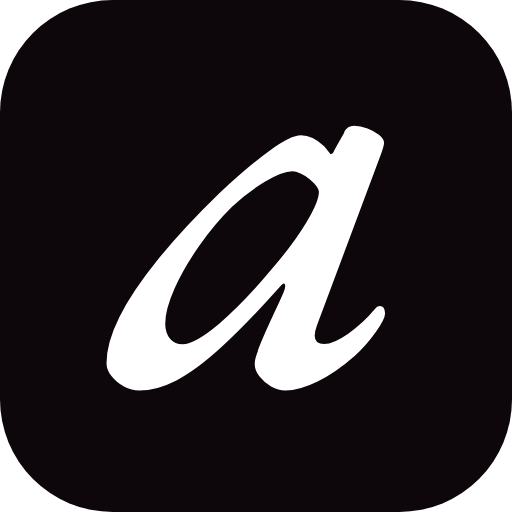
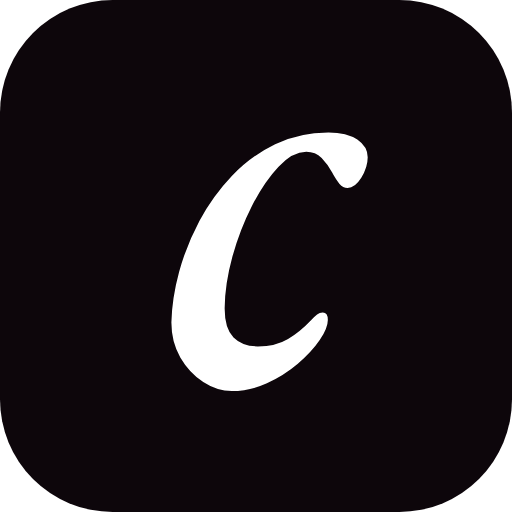
Gather the brand images in brand/
The README banner, GitHub avatar and social preview, X header, and the
Chrome Web Store's promo tiles and screenshots now live in brand/, with
a README saying where each goes. The web app's icons move from the old
mark to the Clutchbox c.

Changed region(s): [[0.1875, 0.25, 0.75, 0.7812], [0.5, 0.3438, 0.5312, 0.375], [0.5, 0.2812, 0.5312, 0.3125]]

diff --git a/scripts/check-extension-version.ts b/scripts/check-extension-version.ts
@@ -1,6 +1,6 @@
 // CI: extension code changed since the base commit needs a new version in apps/extension/package.json.
 // Users install builds by hand, so two different builds sharing a version would hide an update from them.
-// Usage: check-extension-version <base commit>. The store listing (apps/extension/store) and docs are not counted.
+// Usage: check-extension-version <base commit>. Docs are not counted.
 import { execFileSync } from 'node:child_process';
 import { compareVersions } from '../packages/capture/src/index';
 
@@ -29,7 +29,7 @@ if (!before) {
 // The capture package ships inside the extension.
 const changed = git('diff', '--name-only', base, 'HEAD', '--', 'apps/extension', 'packages/capture/src')
   .split('\n')
-  .filter(file => file && !/\.(test\.ts|md)$/.test(file) && !file.startsWith('apps/extension/store/'));
+  .filter(file => file && !/\.(test\.ts|md)$/.test(file));
 // YY.MDD.PATCH: 26.1016.0 is the first release on October 16, 2026 (January 1 is 101); PATCH counts up within a day.
 const calendar = /^\d{2}\.(?:[1-9]|1[0-2])(?:0[1-9]|[12]\d|3[01])\.(?:0|[1-9]\d*)$/;
 if (before !== after && (!calendar.test(after) || compareVersions(after, before) <= 0)) {

diff --git a/README.md b/README.md
@@ -1,6 +1,6 @@
 <div align="center">
   <a href="https://www.clutchbox.dev">
-    <img src=".github/assets/banner.png" alt="Clutchbox: your agents, already signed in. Sync your sign-ins to where your agents run." width="100%">
+    <img src="brand/readme-banner.png" alt="Clutchbox: your agents, already signed in. Sync your sign-ins to where your agents run." width="100%">
   </a>
 
   <p>
@@ -159,7 +159,7 @@ Product routes come from the route manifest ([`packages/web/src/route-manifest.t
 
 Syncing sessions is sensitive, so the defaults are narrow and the code is open for you to audit.
 
-<img src="apps/extension/store/screenshot-2-control.png" alt="The extension's popup: you choose what syncs. Only the sites you add, each with its own Chrome permission; remove one, exclude domains, pause, or disconnect to delete the uploaded copy." width="640">
+<img src="brand/chrome-web-store/screenshot-2-control.png" alt="The extension's popup: you choose what syncs. Only the sites you add, each with its own Chrome permission; remove one, exclude domains, pause, or disconnect to delete the uploaded copy." width="640">
 
 - **Opt-in per site.** No host permissions at install. Each site you add asks Chrome for its own permission, and only those sites' cookies are read. Capturing every site takes an explicit **Allow all sites**, which only builds outside the Chrome Web Store offer. Excluded domains are never captured.
 - **One way.** Captures flow from your browser to your agents, never back.

diff --git a/brand/README.md b/brand/README.md
@@ -1,0 +1,15 @@
+# Brand images
+
+The Clutchbox brand images that are uploaded by hand or shown in this repository's READMEs: EB Garamond on the plum-black ground, or on the plum field. The web app's icons (`apps/web/app`) and the extension's (`apps/extension/public/icon`) stay where their frameworks read them.
+
+| File | Where it goes |
+| --- | --- |
+| `github-avatar.png` | The GitHub organization's profile picture (organization settings, Profile) |
+| `github-social-preview.png` | This repository's social preview (Settings, General, Social preview) |
+| `readme-banner.png` | The top of [README.md](../README.md) |
+| `x-header.png` | The X profile header |
+| `chrome-web-store/promo-small-440x280.png` | The store listing's small promo tile |
+| `chrome-web-store/promo-marquee-1400x560.png` | The store listing's marquee promo tile |
+| `chrome-web-store/screenshot-1-connect.png`, `screenshot-2-control.png` | The store listing's screenshots; the second also illustrates the READMEs |
+
+The store icon is the extension's own `apps/extension/public/icon/128.png`.

diff --git a/apps/extension/README.md b/apps/extension/README.md
@@ -2,7 +2,7 @@
 
 The Chrome extension (Manifest V3) that keeps your agents signed in to the sites you choose. It captures those sites' cookies with their full metadata and syncs them, one way, to your server: the [web app](../web) when you self-host, or [clutchbox.dev](https://www.clutchbox.dev) from the [Chrome Web Store](https://chromewebstore.google.com/detail/agent-computers-%E2%80%94-browser/bjmfpnkjkdkfimdfgbgepmdgdnodpmmi).
 
-<img src="store/screenshot-2-control.png" alt="The extension's popup: github.com synced, with Sync now, Pause, Remove this site, and Add another site." width="640">
+<img src="../../brand/chrome-web-store/screenshot-2-control.png" alt="The extension's popup: github.com synced, with Sync now, Pause, Remove this site, and Add another site." width="640">
 
 - **Only the sites you add,** each behind its own Chrome permission; it requests no host permissions at install. Builds outside the Chrome Web Store also offer **Allow all sites**, as an explicit choice.
 - **Excluded domains** are never captured, even under Allow all sites.
